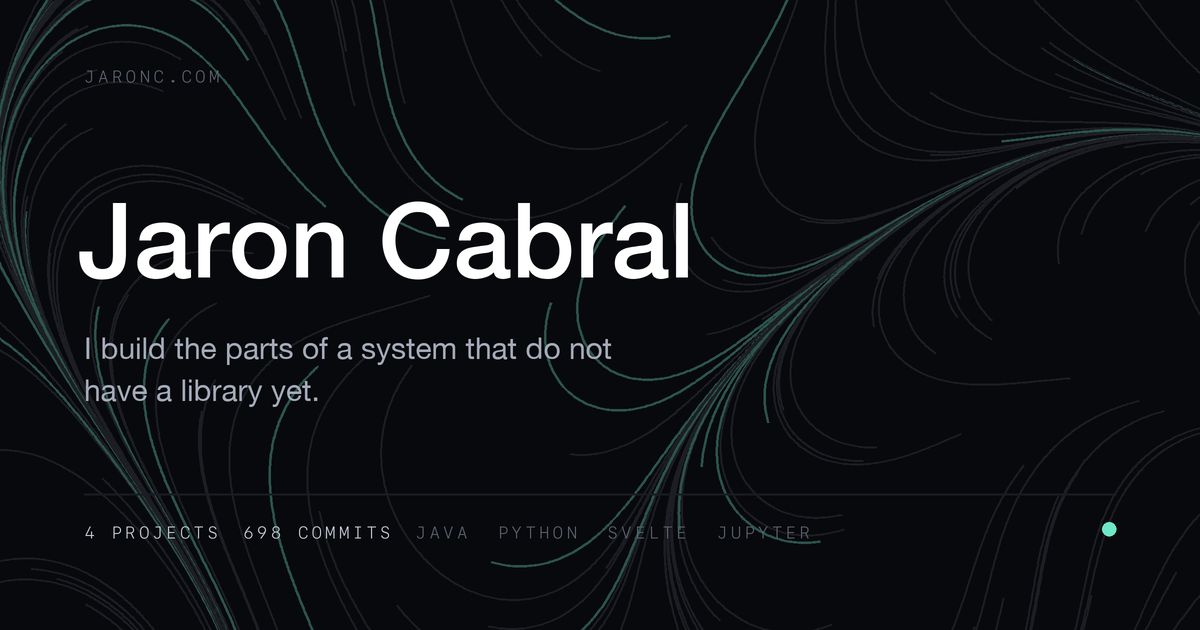
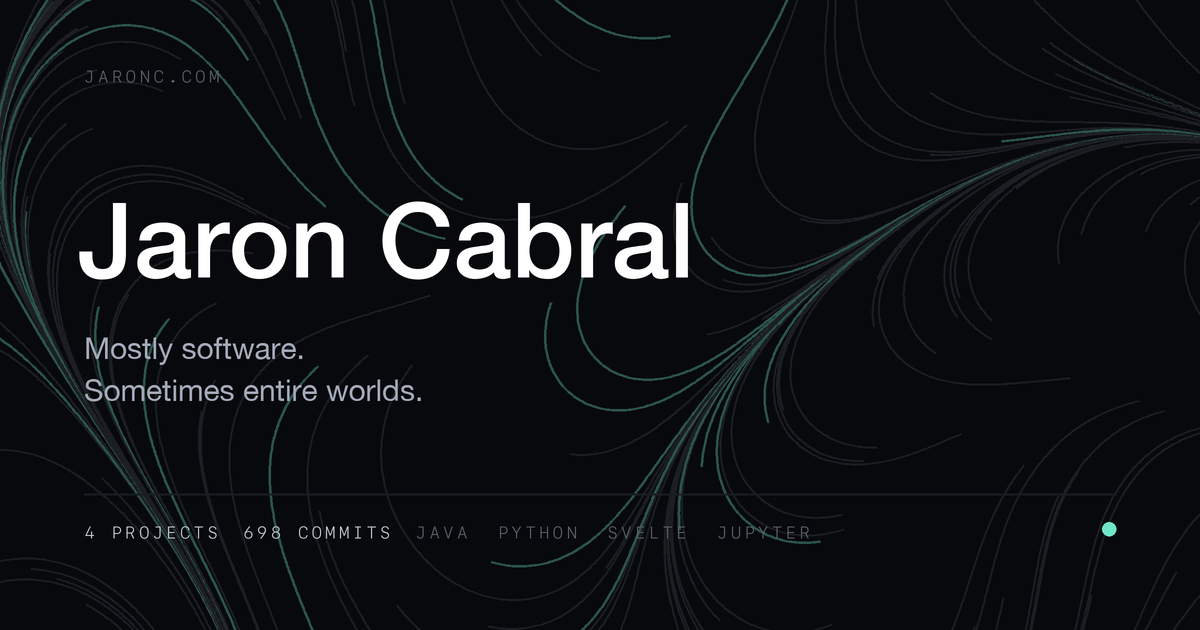
Homepage: a lede that does not explain itself
"I build the parts of a system that do not have a library yet" was a
thesis. This is a shrug, and the bold half behind it is the evidence, so
the claim still gets made, just not by the first sentence.

The meta description, the card and the card generator carry the same
line, so all four move together.

Changed region(s): [[0.0617, 0.5429, 0.5242, 0.573], [0.0617, 0.6032, 0.3392, 0.6635]]

diff --git a/index.html b/index.html
@@ -2,7 +2,7 @@
 <meta charset="utf-8">
 <meta name="viewport" content="width=device-width,initial-scale=1">
 <title>Jaron Cabral</title>
-<meta name="description" content="I build the parts of a system that do not have a library yet. A game engine simulating a planet dying, a forecaster that has to admit when it is wrong, and a gallery that runs with the internet unplugged.">
+<meta name="description" content="Mostly software. Sometimes entire worlds. A game engine simulating a planet dying, a forecaster that has to admit when it is wrong, and a gallery that runs with the internet unplugged.">
 <link rel="canonical" href="https://jaronc.com/">
 <meta name="theme-color" content="#08090c">
 <link rel="icon" type="image/png" sizes="32x32" href="assets/icon-32.png">
@@ -11,7 +11,7 @@
 <meta property="og:type" content="website">
 <meta property="og:site_name" content="Jaron Cabral">
 <meta property="og:title" content="Jaron Cabral">
-<meta property="og:description" content="I build the parts of a system that do not have a library yet. A game engine simulating a planet dying, a forecaster that has to admit when it is wrong, and a gallery that runs with the internet unplugged.">
+<meta property="og:description" content="Mostly software. Sometimes entire worlds. A game engine simulating a planet dying, a forecaster that has to admit when it is wrong, and a gallery that runs with the internet unplugged.">
 <meta property="og:url" content="https://jaronc.com/">
 <meta property="og:image" content="https://jaronc.com/assets/og.png">
 <meta name="twitter:card" content="summary_large_image">
@@ -252,7 +252,7 @@
   <div class="f-in">
     <div class="f-top"><span>Jaron Cabral</span><span>Work, 2025 to 2026</span></div>
     <h1>Jaron Cabral</h1>
-    <p class="f-lede">I build the parts of a system that do not have a library yet. <b>A game engine simulating a planet dying, a forecaster that has to admit when it is wrong, and a gallery that runs with the internet unplugged.</b></p>
+    <p class="f-lede">Mostly software. Sometimes entire worlds. <b>A game engine simulating a planet dying, a forecaster that has to admit when it is wrong, and a gallery that runs with the internet unplugged.</b></p>
 
     <div class="f-facts">
       <span><b>4</b> projects</span>

diff --git a/tools/art/make_assets.py b/tools/art/make_assets.py
@@ -111,9 +111,9 @@ def card():
 
     lede = font(NEUE, 30 * K, REG)
     d.text((pad, 330 * K),
-           "I build the parts of a system that do not", font=lede, fill=MUTED)
+           "Mostly software.", font=lede, fill=MUTED)
     d.text((pad, 372 * K),
-           "have a library yet.", font=lede, fill=MUTED)
+           "Sometimes entire worlds.", font=lede, fill=MUTED)
 
     d.line([(pad, 494 * K), (W * K - pad, 494 * K)], fill=(25, 28, 36), width=2 * K)
     m = font(MONO, 17 * K)
